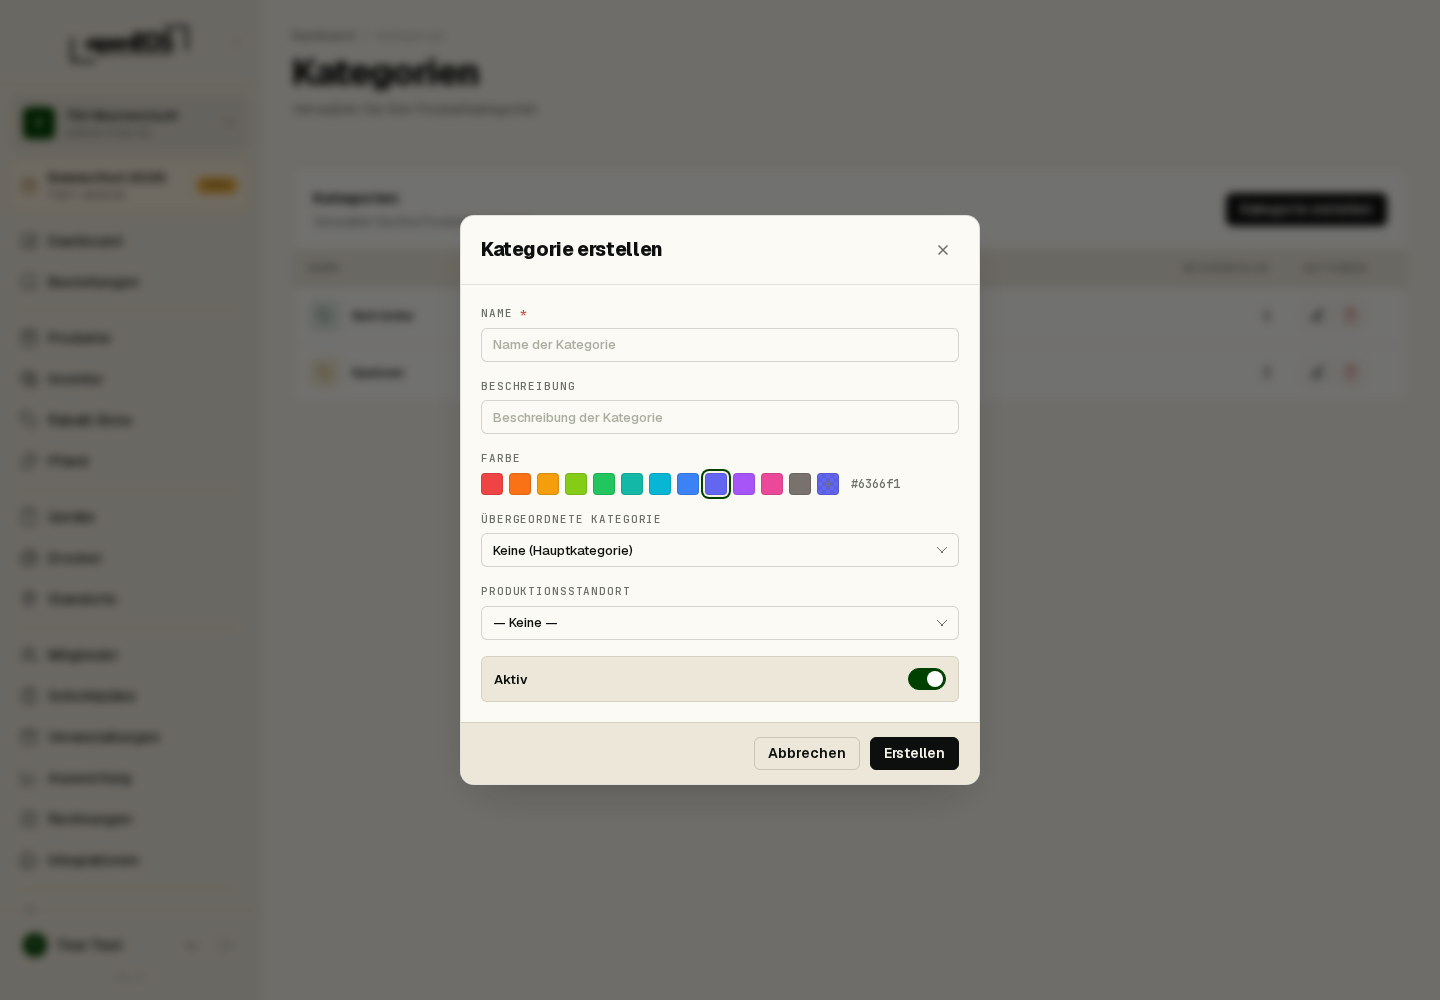
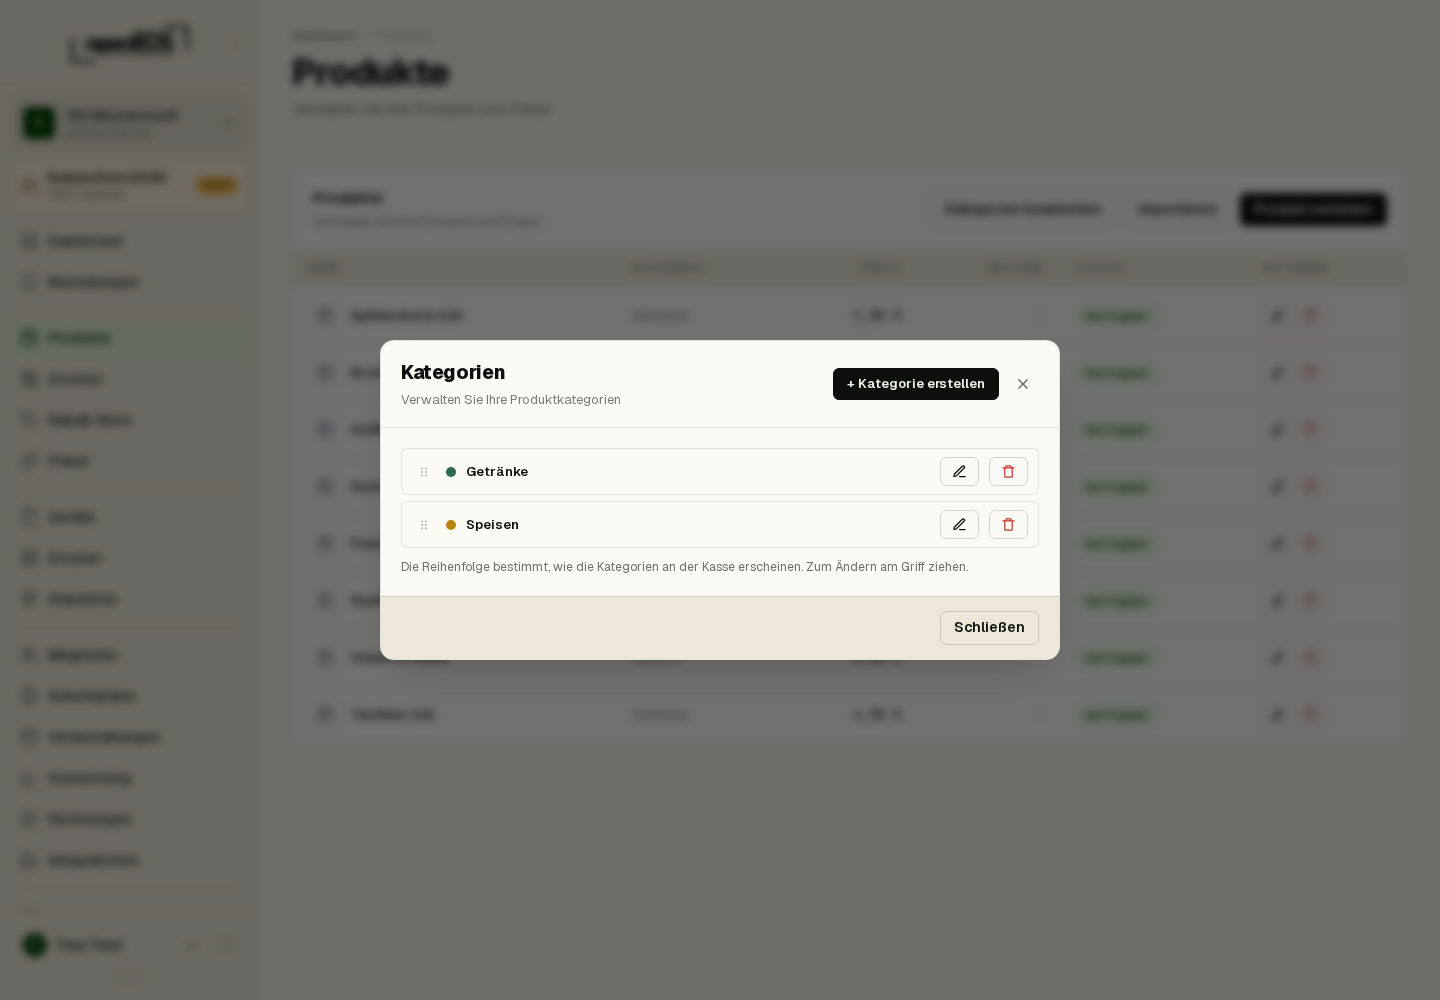
docs: fix admonitions, move categories, document the PDF export
The callout blocks rendered as literal ":::tip" text. Docusaurus 3 wants
the title in brackets; the pages were written with the version 2 syntax.
Thirteen files, one of them predating this work.

Categories no longer have their own menu entry — they are edited from a
dialog on the products page. The chapter and its screenshot follow.

Reporting now documents the PDF export: what the file contains, what it
is called, and to pick the event period rather than today when the event
ran over several days.

Adds a screenshot of where a device is approved, which the pairing
chapters described but did not show, and drops the admin device type
from the list of device kinds, since it no longer exists as a choice.

diff --git a/docs/kategorien.md b/docs/kategorien.md
@@ -1,31 +1,31 @@
 ---
-sidebar_position: 7
+sidebar_position: 12
 title: Kategorien
-description: Produkte in Kategorien gruppieren und farblich ordnen.
+description: Das Sortiment gliedern — über den Dialog „Kategorien bearbeiten" auf der Produktseite.
 ---
 
 # Kategorien
 
-Mit **Kategorien** gruppieren Sie Ihre Produkte – etwa „Getränke" und „Speisen". Kategorien sorgen an der Kasse für Übersicht und lassen sich farblich kennzeichnen. Sie erreichen den Bereich über **Produkte → Kategorien** in der Seitenleiste.
+Kategorien gliedern Ihr Sortiment. An der Kasse erscheinen sie als Spalte links; ein Tipp darauf zeigt die zugehörigen Produkte. Typisch sind *Getränke*, *Speisen*, *Kuchen*.
 
-![Kategorienübersicht](/img/screens/de/categories.png)
-
-## Kategorie erstellen
-
-1. Klicken Sie auf **Kategorie erstellen**.
-2. Füllen Sie die Felder aus:
-   - **Name** (Pflicht) – z. B. „Getränke"
-   - **Beschreibung** – optionaler Zusatz
-   - **Farbe** – Farbkennung der Kategorie für die Kassenansicht
-   - **Reihenfolge** – steuert die Sortierung der Kategorien
-3. Klicken Sie auf **Erstellen**.
-
-![Kategorie erstellen](/img/screens/de/categories-dialog.png)
-
-## Reihenfolge und Farben
-
-Über das Feld **Reihenfolge** bestimmen Sie, in welcher Reihenfolge die Kategorien an der Kasse erscheinen. Geben Sie häufig genutzten Kategorien eine niedrige Zahl, damit sie weiter vorn stehen. Die **Farbe** hilft dem Kassenpersonal, Produktgruppen schneller zu erkennen.
-
-:::tip[Erst Kategorien, dann Produkte]
-Legen Sie Ihre Kategorien vor den Produkten an. Beim [Anlegen eines Produkts](./produkte.md) können Sie es dann direkt der passenden Kategorie zuordnen.
+:::info[Kein eigener Menüpunkt mehr]
+Kategorien wurden früher über einen eigenen Eintrag in der Navigation gepflegt. Sie liegen jetzt dort, wo man sie braucht: auf der **Produktseite**.
 :::
+
+## Kategorien bearbeiten
+
+1. Öffnen Sie **Produkte**.
+2. Klicken Sie oben auf **Kategorien bearbeiten**.
+3. Im Dialog legen Sie neue Kategorien an, benennen bestehende um, ändern die Reihenfolge oder löschen sie.
+
+![Der Dialog „Kategorien bearbeiten" auf der Produktseite](/img/screens/de/categories-dialog.png)
+
+Die Reihenfolge im Dialog ist die Reihenfolge an der Kasse. Stellen Sie nach oben, was am häufigsten verkauft wird — das spart Ihrem Team an jedem Verkauf einen Tipp.
+
+## Kategorie zuweisen
+
+Ein Produkt bekommt seine Kategorie beim Anlegen oder Bearbeiten im Produktdialog. Ein Produkt gehört immer zu genau einer Kategorie.
+
+## Löschen
+
+Eine Kategorie lässt sich nur löschen, wenn keine Produkte mehr darin liegen. Weisen Sie diese vorher einer anderen Kategorie zu.

diff --git a/i18n/en/docusaurus-plugin-content-docs/current/kategorien.md b/i18n/en/docusaurus-plugin-content-docs/current/kategorien.md
@@ -1,31 +1,31 @@
 ---
-sidebar_position: 7
+sidebar_position: 12
 title: Categories
-description: Group products into categories and color-code them.
+description: Structure your range — through the "Edit categories" dialog on the products page.
 ---
 
 # Categories
 
-**Categories** let you group your products — for example "Drinks" and "Food". Categories keep the till organised and can be colour-coded. You can reach this section via **Products → Categories** in the sidebar.
+Categories structure your range. At the till they appear as the left-hand column; tapping one shows its products. Typical ones are *Drinks*, *Food*, *Cakes*.
 
-![Categories overview](/img/screens/en/categories.png)
-
-## Create a category
-
-1. Click **Create category**.
-2. Fill in the fields:
-   - **Name** (required) — e.g. "Drinks"
-   - **Description** — optional additional text
-   - **Color** — colour identifier for the till view
-   - **Order** — controls how categories are sorted
-3. Click **Create**.
-
-![Create category](/img/screens/en/categories-dialog.png)
-
-## Order and colours
-
-The **Order** field determines the sequence in which categories appear at the till. Give frequently used categories a low number so they appear first. The **Color** helps till staff identify product groups more quickly.
-
-:::tip[Categories first, then products]
-Create your categories before your products. When [creating a product](./produkte.md) you can then assign it directly to the right category.
+:::info[No longer its own menu entry]
+Categories used to have their own entry in the navigation. They now live where they are needed: on the **products page**.
 :::
+
+## Editing categories
+
+1. Open **Products**.
+2. Choose **Edit categories** at the top.
+3. In the dialog you can add categories, rename them, reorder them or delete them.
+
+![The "Edit categories" dialog on the products page](/img/screens/en/categories-dialog.png)
+
+The order in the dialog is the order at the till. Put what sells most at the top — it saves your team a tap on every sale.
+
+## Assigning a category
+
+A product is given its category when it is created or edited, in the product dialog. A product always belongs to exactly one category.
+
+## Deleting
+
+A category can only be deleted once no products remain in it. Move those to another category first.

diff --git a/docs/geraete.md b/docs/geraete.md
@@ -18,7 +18,6 @@ Beim Freigeben eines Geräts legen Sie fest, welche Rolle es einnimmt:
 
 - **Kasse** – mobile Kasse (POS) zur Erfassung von Bestellungen.
 - **Display** – Tablet oder Bildschirm, das entweder als [Kundendisplay](#kundendisplay) den Warenkorb einer Kasse spiegelt oder als Standort-Display Bestellungen für Küche, Bar oder Ausgabe anzeigt.
-- **Admin** – Gerät mit vollem Zugriff auf die Verwaltung, z. B. ein Tablet an der Rezeption.
 
 Drucker-Agents (der OpenEOS Drucker-Agent) werden separat unter [Drucker](./drucker.md) verwaltet und erscheinen nicht in dieser Geräteliste.
 
@@ -30,12 +29,15 @@ Das Gerät zeigt eine Zahl, verknüpft wird sie in Ihrem Konto. Auf dem Gerät s
 
 1. **Auf dem Gerät** öffnen Sie `app.openeos.de` und wählen unten **Als Gerät verwenden (Kassen-Terminal)** — bei einem Bildschirm stattdessen **Als Anzeige verwenden (Monitor)**.
 2. Das Gerät zeigt eine **sechsstellige Zahl**, darunter einen QR-Code als zweiten Weg.
-3. **In der Verwaltung** gehen Sie auf **Geräte** und geben die Zahl ein. Mit einem Telefon scannen Sie stattdessen den QR-Code — er führt direkt auf die Eingabemaske.
+3. **In der Verwaltung** gehen Sie auf **Geräte** und geben die Zahl ein.
+
+![Die Zahl vom Gerät eintragen und freigeben](/img/screens/de/device-verify.png)
+ Mit einem Telefon scannen Sie stattdessen den QR-Code — er führt direkt auf die Eingabemaske.
 4. Vergeben Sie einen **Namen** (z. B. „Kasse Theke 1") und wählen Sie den **Gerätetyp**.
 
 Danach wechselt das Gerät von selbst in die Kasse bzw. Anzeige.
 
-:::note Warum eine Zahl
+:::note[Warum eine Zahl]
 Am Tablet hat niemand das Kürzel der Organisation zur Hand, und an einem Fernseher hängt selten eine Tastatur. Eine sechsstellige Zahl lässt sich ablesen und durchsagen — mehr ist nicht nötig.
 :::
 

diff --git a/i18n/en/docusaurus-plugin-content-docs/current/auswertung.md b/i18n/en/docusaurus-plugin-content-docs/current/auswertung.md
@@ -36,3 +36,24 @@ Each detailed report can be downloaded via **Export CSV**. This lets you process
 :::tip[Post-event settlement]
 After the event, select the **All time** period and export top products and payment methods as CSV — this simplifies the final settlement and the summary report for the board.
 :::
+
+## Exporting as PDF
+
+**PDF export**, top right, produces a finished summary of the chosen period — for printing, for cashing up, or for the committee meeting.
+
+The PDF contains:
+
+- A **header** with organisation and period
+- **Headline figures**: revenue and number of orders
+- **Revenue by hour** as a bar chart, showing when the rush was
+- **Payment methods** with count, amount and share
+- **Top products** with quantity, revenue and average price
+- **Revenue by channel** (till, online shop)
+
+The file is named after the period, for example `openeos-auswertung-sommerfest-2026.pdf`, and downloads straight away. It is generated in the browser; with many orders that takes a moment, during which it reads *Generating…*.
+
+:::tip[For cashing up]
+Choose the **Event** period rather than *Today* if the event ran over several days — otherwise the other days are missing.
+:::
+
+Alongside the PDF there is **Export CSV** for working on in a spreadsheet.

diff --git a/i18n/en/docusaurus-plugin-content-docs/current/geraete.md b/i18n/en/docusaurus-plugin-content-docs/current/geraete.md
@@ -20,12 +20,15 @@ The device shows a number and you link it from your account. On the device itsel
 
 1. **On the device**, open `app.openeos.de` and choose **Use as device (till terminal)** at the bottom — for a screen, **Use as display (monitor)** instead.
 2. The device shows a **six-digit number**, with a QR code beneath it as a second route.
-3. **In the admin area**, go to **Devices** and enter the number. With a phone, scan the QR code instead — it opens the entry form directly.
+3. **In the admin area**, go to **Devices** and enter the number.
+
+![Enter the number from the device and approve it](/img/screens/en/device-verify.png)
+ With a phone, scan the QR code instead — it opens the entry form directly.
 4. Give it a **name** ("Bar till 1", say) and choose the **device type**.
 
 The device then switches into the till or screen by itself.
 
-:::note Why a number
+:::note[Why a number]
 Nobody at a tablet has the organisation's short name to hand, and a TV rarely has a keyboard. A six-digit number can be read out and typed in — nothing more is needed.
 :::
 

diff --git a/docs/anzeigen.md b/docs/anzeigen.md
@@ -25,11 +25,14 @@ Der Weg ist derselbe wie bei einer Kasse — das Gerät zeigt eine Zahl, verknü
 2. Der Bildschirm zeigt eine **sechsstellige Zahl** und darunter einen QR-Code.
 3. Melden Sie sich an einem anderen Gerät bei OpenEOS an und gehen Sie auf **Geräte → Gerät verbinden**.
 4. Geben Sie die Zahl ein. Wer ein Telefon zur Hand hat, scannt stattdessen den QR-Code.
+
+![Die Zahl vom Gerät eintragen und freigeben](/img/screens/de/device-verify.png)
+
 5. Vergeben Sie einen **Namen** (zum Beispiel *Küche* oder *Theke Nord*) und wählen Sie die Art der Anzeige.
 
 Danach wechselt der Bildschirm von selbst in die Anzeige. Sie müssen an ihm nichts mehr tun.
 
-:::note Warum eine Zahl statt Zugangsdaten
+:::note[Warum eine Zahl statt Zugangsdaten]
 An einem Fernseher hängt selten eine Tastatur, und das Kürzel der Organisation hat vor Ort niemand im Kopf. Die Zahl lässt sich aus einigen Metern ablesen und eintippen — mehr braucht es nicht.
 :::
 

diff --git a/i18n/en/docusaurus-plugin-content-docs/current/anzeigen.md b/i18n/en/docusaurus-plugin-content-docs/current/anzeigen.md
@@ -25,11 +25,14 @@ The route is the same as for a till — the device shows a number, and you link 
 2. The screen shows a **six-digit number** with a QR code beneath it.
 3. On another device, sign in to OpenEOS and go to **Devices → Connect device**.
 4. Enter the number. With a phone to hand, scan the QR code instead.
+
+![Enter the number from the device and approve it](/img/screens/en/device-verify.png)
+
 5. Give it a **name** (*Kitchen* or *North bar*, say) and choose the kind of screen.
 
 The screen then switches over by itself. Nothing more to do on it.
 
-:::note Why a number rather than credentials
+:::note[Why a number rather than credentials]
 A TV rarely has a keyboard attached, and nobody on site remembers the organisation's short name. A number can be read from across the room and typed in — that is all it takes.
 :::
 

diff --git a/docs/kasse.md b/docs/kasse.md
@@ -8,7 +8,7 @@ description: Bestellung aufnehmen, kassieren und an Küche oder Theke weitergebe
 
 Diese Seite beschreibt den Ablauf an der Kasse selbst — also das, was Ihr Team am Abend des Festes tut. Wie ein Gerät überhaupt zur Kasse wird, steht unter [Geräte verbinden](./geraete.md).
 
-:::tip Vorher ausprobieren
+:::tip[Vorher ausprobieren]
 Solange die Veranstaltung im **Testmodus** steht, können Sie den gesamten Ablauf durchspielen: bis zu 25 Bestellungen kosten nichts. Beim Freischalten werden diese Testbestellungen gelöscht, Ihre Einrichtung bleibt. Oben im Bild sehen Sie dann den Hinweis „Testmodus — Bestellungen werden beim Aktivieren gelöscht".
 :::
 

diff --git a/docs/veranstaltungen.md b/docs/veranstaltungen.md
@@ -40,7 +40,7 @@ Eine neue Veranstaltung startet im **Testmodus**. Darin ist alles benutzbar — 
 
 Beim Freischalten werden die Testbestellungen gelöscht. **Ihre Einrichtung bleibt**: Produkte, Kategorien, Preise, Standorte, Geräte und Drucker müssen Sie nicht erneut anlegen.
 
-:::tip Unser Rat für das erste Fest
+:::tip[Unser Rat für das erste Fest]
 Richten Sie alles in Ruhe vorher ein und spielen Sie im Testmodus einen Durchgang durch: eine Bestellung an der Kasse aufnehmen, auf der Küchenanzeige quittieren, einen Bon drucken. Dann wissen Sie am Festtag, dass die Kette steht.
 :::
 

diff --git a/i18n/en/docusaurus-plugin-content-docs/current/kasse.md b/i18n/en/docusaurus-plugin-content-docs/current/kasse.md
@@ -8,7 +8,7 @@ description: Take an order, take payment, and pass it on to the kitchen or bar.
 
 This page covers what happens at the till itself — what your team does on the night. For how a device becomes a till in the first place, see [Connecting devices](./geraete.md).
 
-:::tip Try it first
+:::tip[Try it first]
 While the event is in **test mode** you can run through the whole thing: up to 25 orders cost nothing. Activating the event deletes those test orders but keeps your setup. A banner at the top reminds you: "Test mode — orders are deleted on activation".
 :::
 

diff --git a/i18n/en/docusaurus-plugin-content-docs/current/veranstaltungen.md b/i18n/en/docusaurus-plugin-content-docs/current/veranstaltungen.md
@@ -40,7 +40,7 @@ A new event starts in **test mode**. Everything works in it — tills, screens, 
 
 Activating deletes the test orders. **Your setup stays**: products, categories, prices, locations, devices and printers do not have to be entered again.
 
-:::tip Our advice for a first event
+:::tip[Our advice for a first event]
 Set everything up calmly beforehand and play one round through in test mode: take an order at the till, acknowledge it on the kitchen screen, print a ticket. Then you know on the day that the chain holds.
 :::
 
